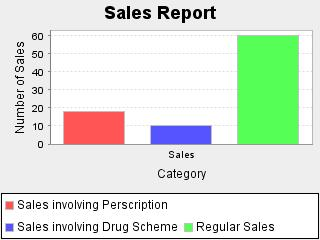
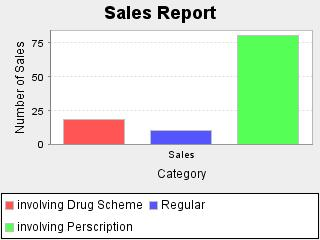
Charts

diff --git a/src/com/psmodel/sales/SalesBarChart.java b/src/com/psmodel/sales/SalesBarChart.java
@@ -40,16 +40,16 @@ public class SalesBarChart implements IObserver
     public void createBarChartImage(int x, int y, int z) throws IOException
     {
 
-      final String perscription = "Sales involving Perscription";
-      final String drugScheme = "Sales involving Drug Scheme";
-      final String regular = "Regular Sales";
+      final String perscription = "involving Perscription";
+      final String drugScheme = "involving Drug Scheme";
+      final String regular = "Regular";
       final String sales = "Sales";
 
       final DefaultCategoryDataset dataset = new DefaultCategoryDataset( );
 
-      dataset.addValue( x , perscription , sales );
-      dataset.addValue( y , drugScheme , sales );
-      dataset.addValue( z , regular , sales );
+      dataset.addValue( x , drugScheme , sales );
+      dataset.addValue( y , regular , sales );
+      dataset.addValue( z , perscription , sales );
       JFreeChart barChart = ChartFactory.createBarChart(
          "Sales Report", 
          "Category", "Number of Sales", 

diff --git a/src/com/pscontroller/SalesReportController.java b/src/com/pscontroller/SalesReportController.java
@@ -1,9 +1,9 @@
 package com.pscontroller;
 
 import com.psmodel.SalesReportModel;
-import com.psmodel.sales.SalesBarChart;
-import com.psmodel.sales.SalesPieChart;
 import com.psview.PharmacyView;
+import java.awt.event.ActionEvent;
+import java.awt.event.ActionListener;
 import java.io.IOException;
 
 public class SalesReportController {
@@ -18,5 +18,15 @@ public class SalesReportController {
         salesReportView.displaySalesReport();
         salesReportModel.initializeSubjectsAndObservers();
         
+        this.salesReportView.addBackToMainMenuFromSalesReportsListener(new BackToMainMenuListener());
+        
+    }
+    
+    class BackToMainMenuListener implements ActionListener{
+        @Override
+        public void actionPerformed(ActionEvent e){
+            System.out.println("back to main menu clicked");
+                salesReportView.displayMainMenuManagerFromSalesReports();  
+        }             
     }
 }

diff --git a/src/com/psview/PharmacyView.java b/src/com/psview/PharmacyView.java
@@ -112,6 +112,14 @@ public class PharmacyView extends JFrame {
         mainMenuPanel.setWelcomeLbl("Welcome Employee");
     }
     
+    public void displayMainMenuManagerFromSalesReports(){
+        salesReportPanel.setVisible(false);
+        this.add(mainMenuPanel);        
+        mainMenuPanel.setVisible(true);
+        mainMenuPanel.setBackground(Color.red);
+        mainMenuPanel.setWelcomeLbl("Welcome Manager");
+    }
+    
     //Modify Panel
     
     public void displayModifyManager(){
@@ -167,5 +175,8 @@ public class PharmacyView extends JFrame {
     public void addSalesReportsListener(ActionListener listenerForSalesReportBtn){
         mainMenuPanel.addSalesReportsListener(listenerForSalesReportBtn);
     }
-
+    
+    public void addBackToMainMenuFromSalesReportsListener(ActionListener listenerForBackToMenuBtn){
+        salesReportPanel.addBackToMainMenuListener(listenerForBackToMenuBtn);
+    }
 }

diff --git a/src/com/psmodel/SalesReportModel.java b/src/com/psmodel/SalesReportModel.java
@@ -2,12 +2,11 @@ package com.psmodel;
 
 import com.psdb.DataBaseManagment;
 import com.psmodel.sales.SalesBarChart;
-import com.psmodel.sales.SalesChart;
 import com.psmodel.sales.SalesDetails;
 import com.psmodel.sales.SalesPieChart;
 
 public class SalesReportModel {
-
+    
     private final DataBaseManagment dbm;
     
     public SalesReportModel(DataBaseManagment dbm){
@@ -27,7 +26,6 @@ public class SalesReportModel {
         // Initialize Gadgets..Note the subject being passed in Constructor
         SalesBarChart salesBarChart = new SalesBarChart(salesDetails);
         SalesPieChart salesPieChart =  new SalesPieChart(salesDetails);
-        SalesChart salesChart = new SalesChart(salesDetails);
 
         
         salesDetails.setMedicalCardSales(medicalCardSales);

diff --git a/src/com/psmodel/sales/SalesDetails.java b/src/com/psmodel/sales/SalesDetails.java
@@ -1,6 +1,5 @@
 package com.psmodel.sales;
 
-import com.psdb.DataBaseManagment;
 import java.util.ArrayList;
 
 public class SalesDetails implements ISubject
@@ -11,7 +10,7 @@ public class SalesDetails implements ISubject
   }
   
   // A Collection to keep track of all Registered Observers
-  ArrayList observers = new ArrayList();
+  ArrayList <IObserver>observers = new ArrayList<>();
 
   // Stores latest stock quote (example is purposely simplistic)
   private int medicalCardSales = 0;
@@ -33,11 +32,13 @@ public class SalesDetails implements ISubject
     regularSales = x;
   }
   
+  @Override
   public void register(IObserver o)
   {
     observers.add(o);
   }
 
+  @Override
   public void unregister(IObserver o)
   {
     int i = observers.indexOf(o);

diff --git a/src/com/psmodel/sales/SalesPieChart.java b/src/com/psmodel/sales/SalesPieChart.java
@@ -39,9 +39,9 @@ public class SalesPieChart implements IObserver
     public void createPieChartImage(int x, int y, int z) throws IOException
     {
       DefaultPieDataset dataset = new DefaultPieDataset( );
-      dataset.setValue("Sales involving Perscription", new Double( x ) );
-      dataset.setValue("Sales involving Drug Scheme", new Double( y ) );
-      dataset.setValue("Reglar Sales", new Double( z ) );
+      dataset.setValue("involving Drug Scheme", new Double( x ) );
+      dataset.setValue("Regular", new Double( y ) );
+      dataset.setValue("involving Perscription", new Double( z ) );
 
       JFreeChart chart = ChartFactory.createPieChart(
          "Sales Report", // chart title

diff --git a/src/com/pscontroller/MainMenuController.java b/src/com/pscontroller/MainMenuController.java
@@ -15,7 +15,7 @@ public class MainMenuController {
     
     private PharmacyView mainMenuView;
     private MainMenuModel mainMenuModel;
-    
+    //private SalesReportModel salesReportModel;
     
     public MainMenuController(PharmacyView mainMenuView, MainMenuModel mainMenuModel){
         this.mainMenuView = mainMenuView;
@@ -24,6 +24,7 @@ public class MainMenuController {
         if(this.mainMenuModel.getUser().getRole().equals("M"))
         {
             this.mainMenuView.displayMainMenuManager();
+            //salesReportModel.initializeSubjectsAndObservers();
         }else{
             this.mainMenuView.displayMainMenuEmployee();
         }       

diff --git a/src/com/psview/SalesReportPanel.java b/src/com/psview/SalesReportPanel.java
@@ -1,6 +1,7 @@
 package com.psview;
 
 import com.psmodel.PharmacyConstants;
+import java.awt.event.ActionListener;
 import javax.swing.ImageIcon;
 import javax.swing.JButton;
 import javax.swing.JLabel;
@@ -33,5 +34,9 @@ public class SalesReportPanel extends JPanel{
         this.add(pieLabel);
         this.add(barLabel);
         this.add(backToMainMenuBtn);
+    }
+    
+    public void addBackToMainMenuListener(ActionListener listenerForBackToMainMenuBtn){
+        backToMainMenuBtn.addActionListener(listenerForBackToMainMenuBtn);
     }
 }

diff --git a/src/com/psmodel/MainMenuModel.java b/src/com/psmodel/MainMenuModel.java
@@ -3,7 +3,6 @@ package com.psmodel;
 import com.psmodel.user.User;
 import com.psdb.DataBaseManagment;
 import com.psmodel.sales.SalesBarChart;
-import com.psmodel.sales.SalesChart;
 import com.psmodel.sales.SalesDetails;
 import com.psmodel.sales.SalesPieChart;
 
